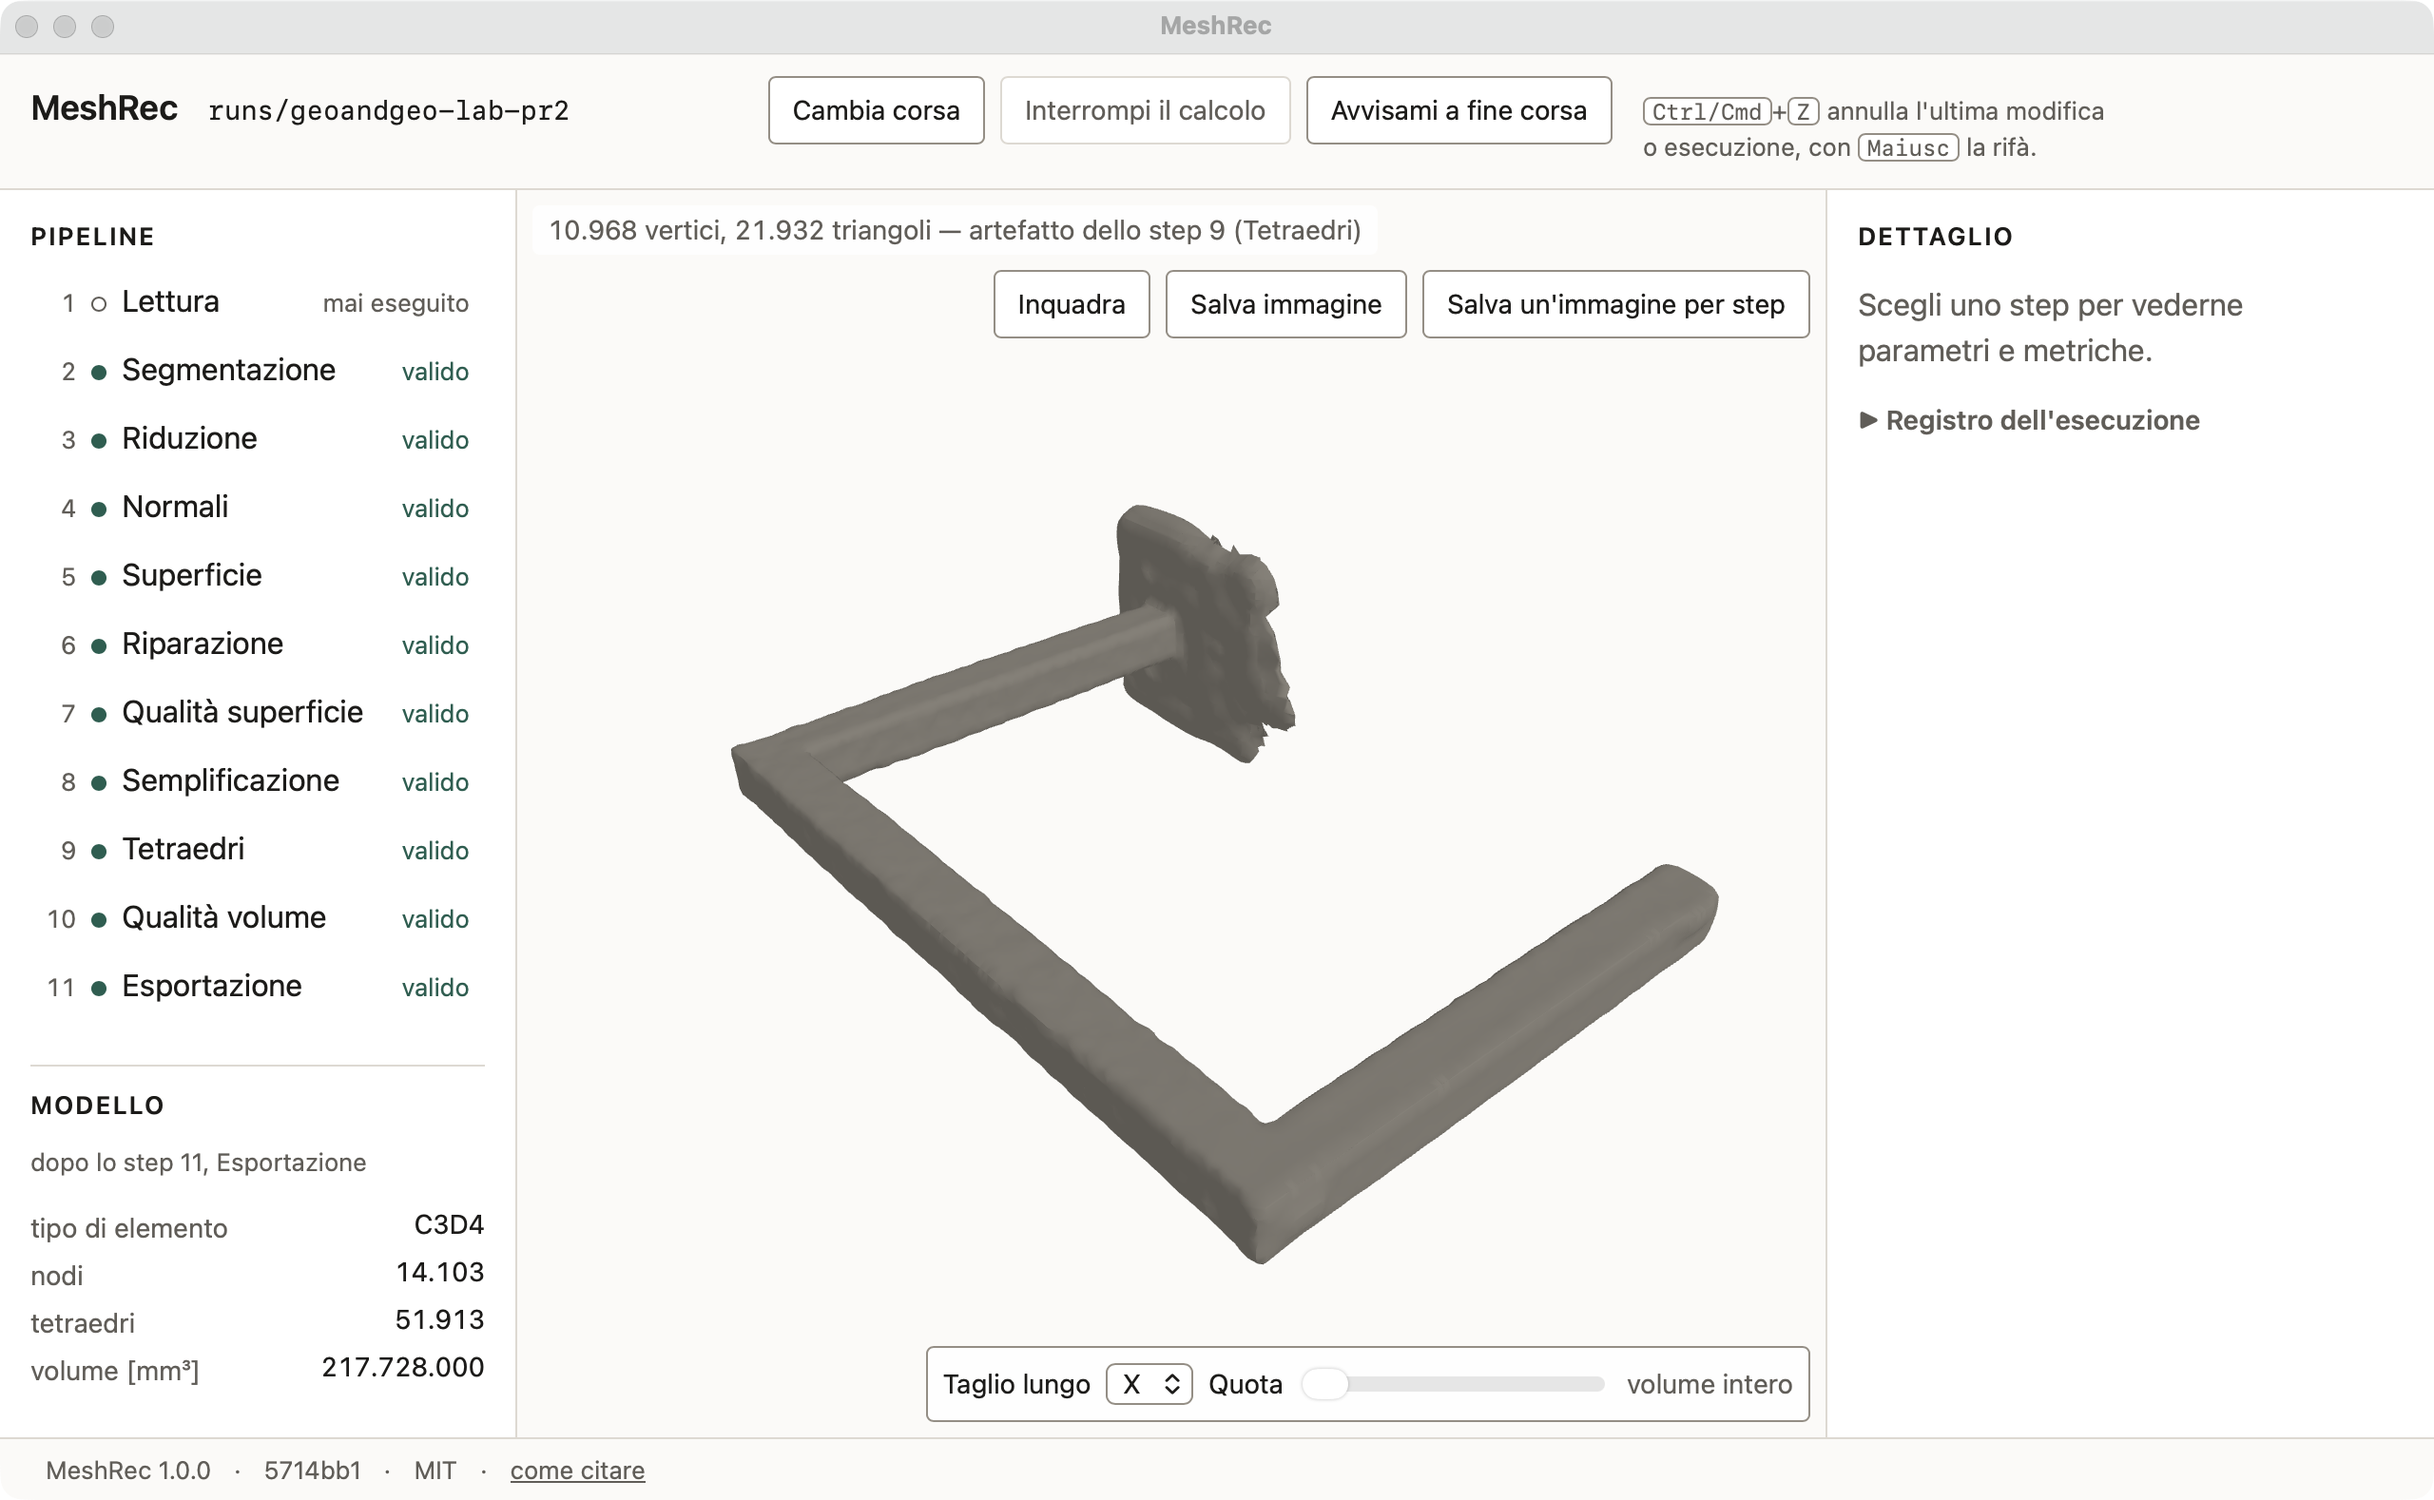
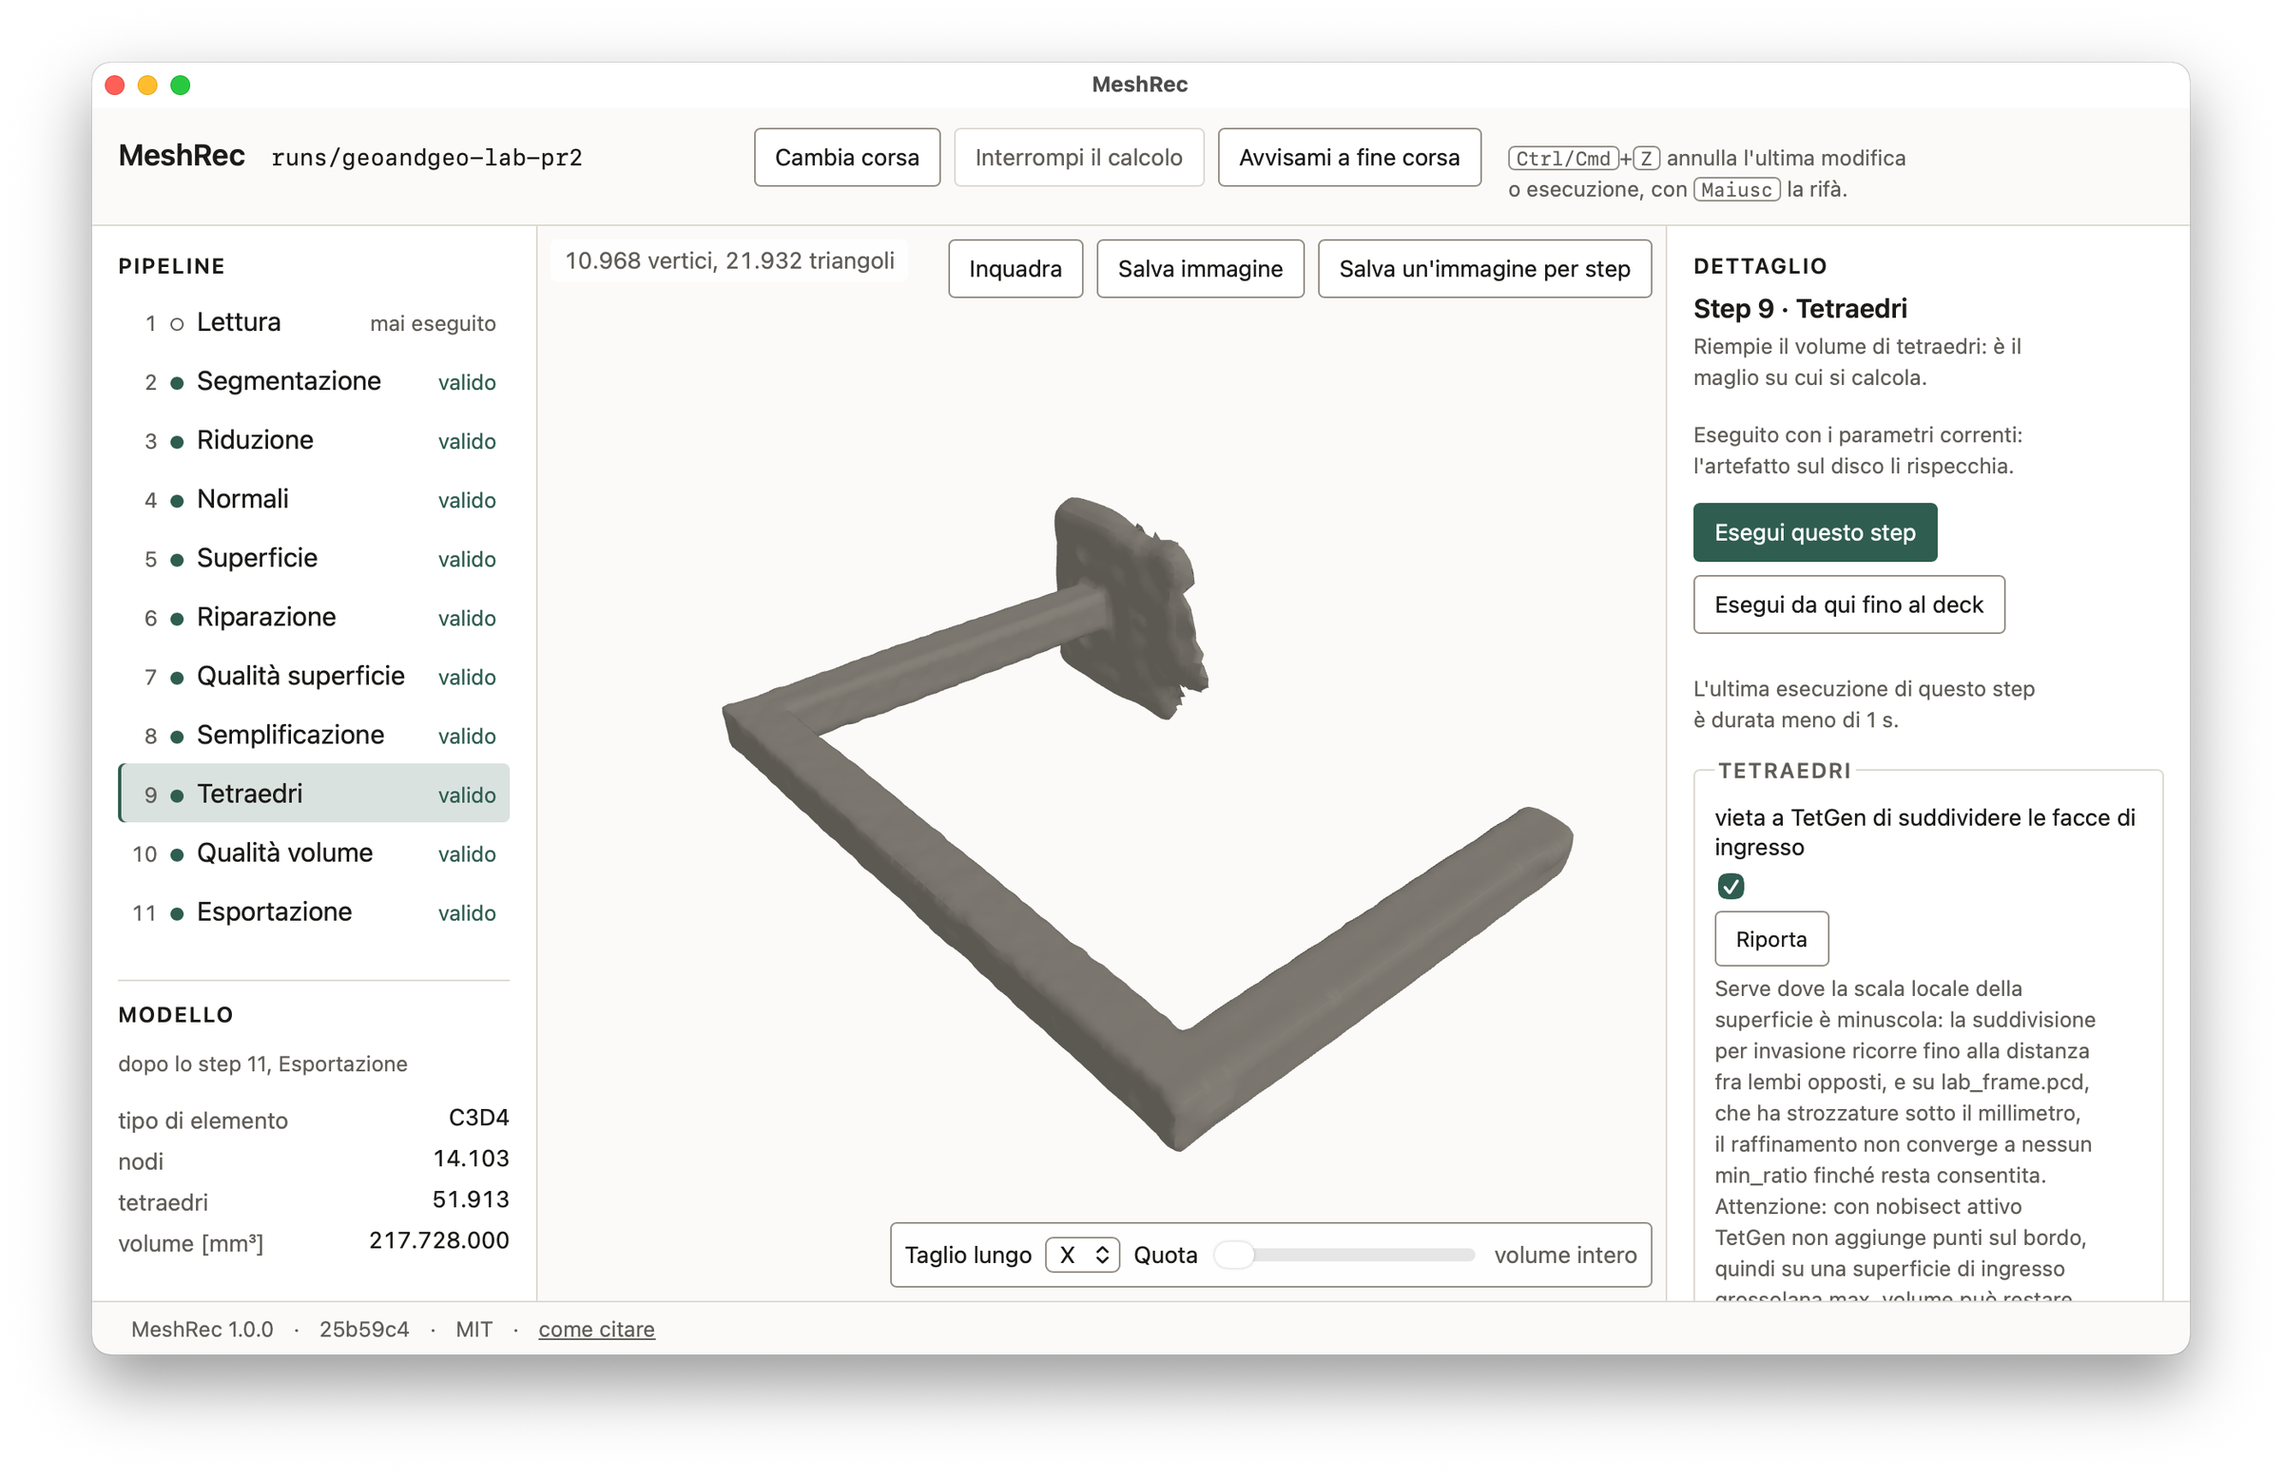
docs(identita): screenshot con il dettaglio aperto, README dice cemento armato, piano e spec ricordano il nome vecchio
- viewport.png: finestra a fuoco, step 9 selezionato e pannello Dettaglio
  pieno (2400x1553, 903 KB, con l'ombra della finestra).
- README: la prima riga rimette «di una struttura in cemento armato» e
  «in modo riproducibile», persi con il sottotitolo.
- Piano e spec: le righe che documentano il rename tornano a citare
  maeurong/Tesi come nome di partenza; il sed le aveva riscritte in no-op.

Claude-Session: https://claude.ai/code/session_01ThwDJ8ahpgiZ84g2CuLKWH

diff --git a/docs/superpowers/plans/2026-09-11-impacchettare-meshrec.md b/docs/superpowers/plans/2026-09-11-impacchettare-meshrec.md
@@ -1642,27 +1642,27 @@ Round pre-commit in parallelo (`security-reviewer`: sottoprocessi, registro, Pow
 Nota di dispatch: gli appunti in `~/.claude/projects/` sono fuori repo e li aggiorna il thread principale, non il subagente.
 
 **Files:**
-- GitHub: `maeurong/meshrec` → `maeurong/meshrec`
-- Modify: ogni file con `maeurong/meshrec` fuori da `docs/ricerca/fonti/` e `.git/` (elenco con il `grep` del passo 1)
+- GitHub: `maeurong/Tesi` → `maeurong/meshrec`
+- Modify: ogni file con `maeurong/Tesi` fuori da `docs/ricerca/fonti/` e `.git/` (elenco con il `grep` del passo 1)
 
 **Ricerca:** `docs/ricerca/2026-09-11-identita-e-autorevolezza.md:237` (il record DOI congela il nome: rename prima di Zenodo).
 
 - [ ] **Step 1: Inventario**
 
-Run: `grep -rln "maeurong/meshrec" /Users/mario/GitHub/Tesi --exclude-dir=fonti --exclude-dir=.git --exclude-dir=.venv --exclude-dir=graphify-out`
+Run: `grep -rln "maeurong/Tesi" /Users/mario/GitHub/Tesi --exclude-dir=fonti --exclude-dir=.git --exclude-dir=.venv --exclude-dir=graphify-out`
 Expected: l'elenco dei file (al 11/09/2026: 29, fra `docs/`, `meshrec/tests/`, `meshrec/docs/`).
 
 - [ ] **Step 2: Rename su GitHub e remote**
 
-Run: `gh repo rename meshrec --repo maeurong/meshrec --yes`
+Run: `gh repo rename meshrec --repo maeurong/Tesi --yes`
 Run: `gh repo edit maeurong/meshrec --description "MeshRec — dal rilievo fotogrammetrico al modello FEM"`
 Run: `git -C /Users/mario/GitHub/Tesi remote set-url origin https://github.com/maeurong/meshrec.git`
 Run: `git -C /Users/mario/GitHub/Tesi fetch --dry-run` → nessun errore.
 
 - [ ] **Step 3: Sostituzione**
 
-Run: `grep -rl "maeurong/meshrec" /Users/mario/GitHub/Tesi --exclude-dir=fonti --exclude-dir=.git --exclude-dir=.venv --exclude-dir=graphify-out | xargs sed -i '' 's#maeurong/meshrec#maeurong/meshrec#g'`
-Run: `grep -rn "maeurong/meshrec" /Users/mario/GitHub/Tesi --exclude-dir=fonti --exclude-dir=.git --exclude-dir=.venv --exclude-dir=graphify-out | wc -l` → `0`.
+Run: `grep -rl "maeurong/Tesi" /Users/mario/GitHub/Tesi --exclude-dir=fonti --exclude-dir=.git --exclude-dir=.venv --exclude-dir=graphify-out | xargs sed -i '' 's#maeurong/Tesi#maeurong/meshrec#g'`
+Run: `grep -rn "maeurong/Tesi" /Users/mario/GitHub/Tesi --exclude-dir=fonti --exclude-dir=.git --exclude-dir=.venv --exclude-dir=graphify-out | wc -l` → `0`.
 Run: `uv run pytest -q` (i test in `test_accenti.py`, `test_guardie_e_nomi.py` e altri citano l'URL nei docstring: devono restare verdi).
 
 - [ ] **Step 4: Commit**

diff --git a/docs/superpowers/specs/2026-09-11-impacchettare-meshrec-design.md b/docs/superpowers/specs/2026-09-11-impacchettare-meshrec-design.md
@@ -259,7 +259,7 @@ Ordine vincolante, perché ogni passo scrive l'URL o il numero del precedente:
 
 1. **Rename** `gh repo rename meshrec` (GitHub reindirizza il vecchio URL);
    descrizione «MeshRec — dal rilievo fotogrammetrico al modello FEM»;
-   `git remote set-url origin`; ogni URL `maeurong/meshrec` in README, docs, spec,
+   `git remote set-url origin`; ogni URL `maeurong/Tesi` in README, docs, spec,
    `CLAUDE.md`, `AGENTS.md`, `PRODUCT.md` aggiornato con un `sed` verificato
    da `grep`. La cartella locale resta `~/GitHub/Tesi`.
 2. **`CITATION.cff`** in radice: `cff-version 1.2.0`, `title` MeshRec,
@@ -284,7 +284,7 @@ Ordine vincolante, perché ogni passo scrive l'URL o il numero del precedente:
 
 ### Ingressi degeneri
 
-- rename fatto e `grep -r "maeurong/meshrec"` trova ancora una riga → il passo
+- rename fatto e `grep -r "maeurong/Tesi"` trova ancora una riga → il passo
   non è chiuso; il test è il `grep` a zero righe (escluso `docs/ricerca/fonti/`,
   che è materiale catturato e non si tocca)
 - `cffconvert --validate` fallisce → il CFF non si committa

diff --git a/README.md b/README.md
@@ -4,7 +4,7 @@
 [![Licenza MIT](https://img.shields.io/github/license/maeurong/meshrec)](LICENSE)
 [![Python 3.12](https://img.shields.io/badge/python-3.12-blue)](meshrec/pyproject.toml)
 
-**Dal rilievo fotogrammetrico al modello FEM.** Ingressi: `.pcd`, `.ply`, `.xyz`.
+**Dal rilievo fotogrammetrico di una struttura in cemento armato al modello FEM, in modo riproducibile.** Ingressi: `.pcd`, `.ply`, `.xyz`.
 Uscite: deck Abaqus `.inp` e geometria `.step`.
 
 ![Il viewport di MeshRec su una corsa del caso studio](docs/immagini/viewport.png)
